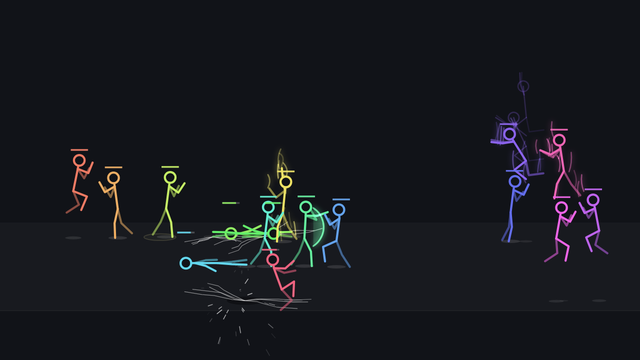
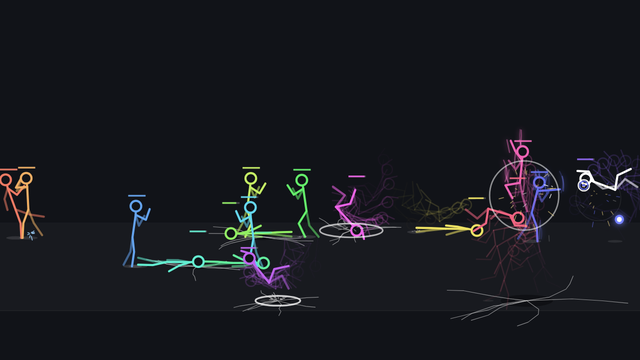
feat: chain landed strikes into combos (#458)
* feat: chain landed strikes into combos

A punch or kick that lands on a target left reeling may run straight
on into the next strike of its chain (COMBO_NEXT), cutting its own
recovery short, for up to four strikes. The next strike is picked from
those whose style is on and whose reach fits where the sliding target
will be, and the target stays reeling until it lands, so no link
whiffs. A blocked, shielded or substituted strike starts no combo.

Re-record demo.gif at seed 12, whose scan shows all eight styles, and
the settings pictures; names-headgear starts at 2 s so every name
shows.

* fix: check a combo's staff strike against its own reach

With a staff held, the next strike of a combo is a staff strike with a
longer reach; check each candidate as it would be thrown.

---------

diff --git a/wallpaper/main.js b/wallpaper/main.js
@@ -425,6 +425,8 @@ function resize() {
 
 const TEAM_COLOR = ['#ff6b6b', '#4dabf7'];
 const TEAM_NAME = ['RED', 'BLUE'];
+// The states a strike that got through leaves its target in, rather than blocked or shielded
+const LANDED = new Set(['hit', 'launched', 'frozen', 'ko']);
 const HIT_STATES = new Set(['idle', 'air', 'attack', 'hit', 'block', 'launched', 'splat', 'frozen']);
 const SOLID = new Set(['idle', 'attack', 'hit', 'block', 'frozen']);
 // States in which a fighter lies or turns between lying and standing, kept inside the walls (issue #244)
@@ -486,7 +488,7 @@ function slowmoView(ox, oy) {
   view = { z, x: ox * z + cx * (1 - z), y: oy * z + cy * (1 - z) };
   ctx.setTransform(dpr * S * z, 0, 0, dpr * S * z, view.x * dpr, view.y * dpr);
 }
-const stats = { att: {}, hits: {}, whiff: 0, blocked: 0, shielded: 0, subs: 0, ko: 0, rounds: 0, throws: 0, launches: 0, splats: 0, sfx: {} };
+const stats = { att: {}, hits: {}, whiff: 0, blocked: 0, shielded: 0, subs: 0, ko: 0, rounds: 0, throws: 0, launches: 0, combos: 0, splats: 0, sfx: {} };
 window.__stickmanBrawl = { stats, cfg, MOVES, SUPER, MAGIC, NINJA, shots, fx, sfx, soundSetVolume, soundSetPaused, checkRound, update, pickMove, pickTarget,
   render: () => render(),
   get fighters() { return fighters; } };
@@ -937,6 +939,23 @@ const WARN_BEAM_PARTS = ['head', 'sh', 'hip'], WARN_SHOT_PARTS = ['head', 'sh', 
 const SIDESTEP = new Set(['beam', 'blast', 'fireball', 'ice', 'shuriken', 'clones']);
 // Attacks made right after appearing next to a target (teleport, substitution)
 const TELEPORT_FOLLOW = ['hook', 'roundhouse', 'backkick', 'uppercut', 'elbow', 'rising', 'barrage', 'clones'];
+// Combos: a strike that lands and leaves its target reeling may run straight on into the next
+// strike of a chain, cancelling the rest of its recovery. Each strike lists what it can lead on
+// to; the uppercut, back kick and axe kick end a chain, as they launch or knock down.
+const COMBO_NEXT = {
+  jab: ['jab', 'cross', 'hook', 'lowkick'],
+  cross: ['hook', 'uppercut', 'lowkick', 'roundhouse'],
+  hook: ['uppercut', 'cross', 'elbow', 'roundhouse'],
+  elbow: ['knee', 'uppercut', 'hook'],
+  knee: ['elbow', 'uppercut'],
+  lowkick: ['roundhouse', 'cross', 'sidekick'],
+  teep: ['roundhouse', 'sidekick', 'backkick'],
+  roundhouse: ['backkick', 'axekick', 'cross'],
+  sidekick: ['backkick', 'axekick'],
+};
+const COMBO_MAX = 4;        // Strikes at most in one combo
+const COMBO_CHANCE = 0.7;   // Chance that a strike which lands leads on to the next
+window.__stickmanBrawl.COMBO_NEXT = COMBO_NEXT; window.__stickmanBrawl.COMBO_MAX = COMBO_MAX;
 const INIT_PHASE = { beam: 'charge', blast: 0, barrage: 0, rising: 0, dive: 'jump', slam: 'up', teleport: 'out', wallrun: 'run',
   fireball: 'charge', lightning: 'cast', ice: 'cast', shield: 'up',
   shuriken: 'cast', clones: 'split', smoke: 'out', substitute: 'in' };
@@ -961,6 +980,7 @@ class Fighter {
     this.target = null; this.retarget = 0; this.cool = rand(0.4, 1.4); this.evade = 0; this.dash = 0;
     this.rot = 0; this.rotV = 0; this.fallSign = -1; this.walk = 0; this.spin = false; this.hover = false;
     this.flash = 0; this.hitDone = false; this.prevHP = null; this.juggle = 0; this.dashed = false; this.dj = false;
+    this.combo = 0; this.chain = null;    // Strikes landed in the running combo, and the target it runs on at
     this.th = null; this.rag = null; this.hipH = 44; this.W = null; this.downDur = 1; this.koPending = false;
     this.aura = 0; this.alpha = 1; this.invis = false; this.ghost = false;
     this.trail = []; this.trailOn = false; this.trailT = 0;
@@ -1343,7 +1363,10 @@ class Fighter {
     return platforms.length ? platformAlt(this.x, this.z, groundY(this.z) - this.alt) : 0;
   }
 
-  startMove(m, surprise) {
+  // chained: the move runs on from a strike that landed, as the next strike of a combo
+  startMove(m, surprise, chained) {
+    if (!chained) this.combo = 0;
+    this.chain = null;
     this.state = 'attack'; this.st = 0; this.move = m; this.nextMove = null; this.reachT = 0; this.hover = false;
     this.hitDone = false; this.prevHP = null; this.from = clonePose(this.pose);
     // A move ends a dash, as a block does (#169), so the dash speed and afterimages do not
@@ -1451,6 +1474,8 @@ class Fighter {
       this['u_' + m.type](dt); return;
     }
     const st = this.st, T1 = m.wind, T2 = T1 + m.act, T3 = T2 + m.rec;
+    // Once the impact has carried through, a combo cuts the recovery short with its next strike
+    if (this.chain && st >= T2 + m.rec * FOLLOW && this.chainOn()) return;
     if (st < T1) lerpPose(this.from, m.W, ease(st / T1), this.pose);
     else if (st < T2) lerpPose(m.W, m.A, easeOut(Math.min(1, (st - T1) / (m.act * 0.5))), this.pose);
     else if (st < T2 + m.rec * FOLLOW) lerpPose(m.A, m.F, easeOut((st - T2) / (m.rec * FOLLOW)), this.pose);
@@ -2182,7 +2207,44 @@ class Fighter {
     const H = m.staff ? staffTip(this.W, m.hit) : this.W[m.hit], P0 = this.prevHP || H;
     this.prevHP = { x: H.x, y: H.y };
     const r = this.sweepHit(P0, H);
-    if (r) { this.hitDone = true; r[0].takeHit(this, m, r[1], H); }
+    if (r) {
+      this.hitDone = true;
+      const e = r[0];
+      if (e.takeHit(this, m, r[1], H) === 'sub' || !LANDED.has(e.state)) return;
+      this.combo++;
+      // Only a target still reeling on its feet can be caught by the next strike
+      if (e.state === 'hit' && this.combo < COMBO_MAX && COMBO_NEXT[(m.bare || m).id] && !this.aloft() && Math.random() < COMBO_CHANCE) this.chain = e;
+    }
+  }
+
+  // Starts the next strike of a combo at this.chain, from those of this strike's chain whose
+  // style is on and that reach the target; false when none can be thrown, which ends the combo
+  chainOn() {
+    const e = this.chain, m = this.move;
+    this.chain = null;
+    if (!e.alive || !e.hittable || Math.abs(e.z - this.z) > 16 || Math.abs(e.alt - this.alt) >= 35) return false;
+    const dx = e.x - this.x, dist = Math.abs(dx);
+    // A reeling target slides on, slowing at 520 a second each second (update()), so a strike is
+    // aimed at where it will be when the strike lands, halfway through its active time
+    const away = e.vx * sgn(dx), slide = T => Math.abs(away) / 520 < T ? away * Math.abs(away) / 1040 : away * T - 260 * T * T;
+    // Each candidate as it would be thrown: with a staff held, a staff strike with its own reach
+    const next = COMBO_NEXT[(m.bare || m).id].filter(id => cfg.styles[MOVE_BY[id].style]).map(id => withStaff(this, MOVE_BY[id]));
+    const fits = next.filter(n => {
+      const T = n.wind + n.act * 0.5, d = dist + slide(T);
+      // In the far half of the reach, short of its very end: thrown from closer, the fist or foot
+      // sweeps past the target's body between two frames, and at its farthest it can fall short
+      const span = n.range[1] - n.range[0];
+      return d >= n.range[0] + span * 0.5 && d <= n.range[1] - span * 0.1;
+    });
+    if (!fits.length) return false;
+    if (dist > 1) this.facing = sgn(e.x - this.x);
+    this.target = e; stats.combos++;
+    const n = pick(fits);
+    // The combo keeps its target reeling until the next strike lands, or it would be back on
+    // guard and walk out of reach of a slower strike
+    e.dur = Math.max(e.dur, e.st + n.wind + n.act * 0.5 + 0.05);
+    this.startMove(n, false, true);
+    return true;
   }
 
   applyGrab(e) {

diff --git a/README.zh-CN.md b/README.zh-CN.md
@@ -8,8 +8,8 @@
 给 [Wallpaper Engine](https://www.wallpaperengine.io/) 用的漫画风火柴人格斗壁纸。
 角色混用拳击、泰拳、跆拳道、柔道和摔跤，加上漫画式必杀技（气功波、飞檐走壁、
 把对手打到撞墙）、魔法（火球、雷击、把对手冻住的冰锥、挡下一击的护盾），以及忍术：
-手里剑、影分身、烟遁，还有留下木头替身挨打的替身术。被击倒的一方会变成布娃娃，
-场上只剩一方时开始新的回合。
+手里剑、影分身、烟遁，还有留下木头替身挨打的替身术。拳脚打中后可以直接接下一招，
+最多四招连成一套连续技。被击倒的一方会变成布娃娃，场上只剩一方时开始新的回合。
 
 ![六个角色大乱斗](demo.gif)
 

diff --git a/README.zh-TW.md b/README.zh-TW.md
@@ -8,8 +8,8 @@
 給 [Wallpaper Engine](https://www.wallpaperengine.io/) 用的漫畫風火柴人格鬥桌布。
 角色混用拳擊、泰拳、跆拳道、柔道和角力，加上漫畫式必殺技（氣功波、飛簷走壁、
 把對手打到撞牆）、魔法（火球、雷擊、把對手凍住的冰錐、擋下一擊的護盾），以及忍術：
-手裡劍、影分身、煙遁，還有留下木頭替身挨打的替身術。被擊倒的一方會變成布娃娃，
-場上只剩一方時開始新的回合。
+手裡劍、影分身、煙遁，還有留下木頭替身挨打的替身術。拳腳打中後可以直接接下一招，
+最多四招連成一套連續技。被擊倒的一方會變成布娃娃，場上只剩一方時開始新的回合。
 
 ![六個角色大亂鬥](demo.gif)
 

diff --git a/README.md b/README.md
@@ -10,8 +10,9 @@ Fighters mix boxing, Muay Thai, taekwondo, judo and wrestling with comic
 specials (energy blasts, wall running, and hits that slam them into walls),
 magic (fireballs, lightning strikes, ice shards that freeze the target, and
 shields that stop a hit) and ninjutsu: shuriken, shadow clones, smoke escapes,
-and a log left behind to take a hit. A knockout turns the loser into a
-ragdoll, and a new round starts when one side is left.
+and a log left behind to take a hit. A punch or kick that lands can run
+straight on into the next, in combos of up to four strikes. A knockout turns
+the loser into a ragdoll, and a new round starts when one side is left.
 
 ![Six fighters brawling in free-for-all mode](demo.gif)
 

diff --git a/AGENTS.md b/AGENTS.md
@@ -3,7 +3,7 @@
 ## What this is
 
 Stickman Brawl is a web wallpaper for Wallpaper Engine. A single canvas shows
-comic-style stick figures fighting: keyframed poses for martial-arts moves,
+comic-style stick figures fighting: keyframed poses for martial-arts moves that chain into combos,
 comic specials (energy blasts, wall running, wall slams), elemental
 magic (fireballs, lightning, ice, shields), ninjutsu (shuriken, shadow clones,
 smoke escapes, substitution), and a verlet ragdoll
